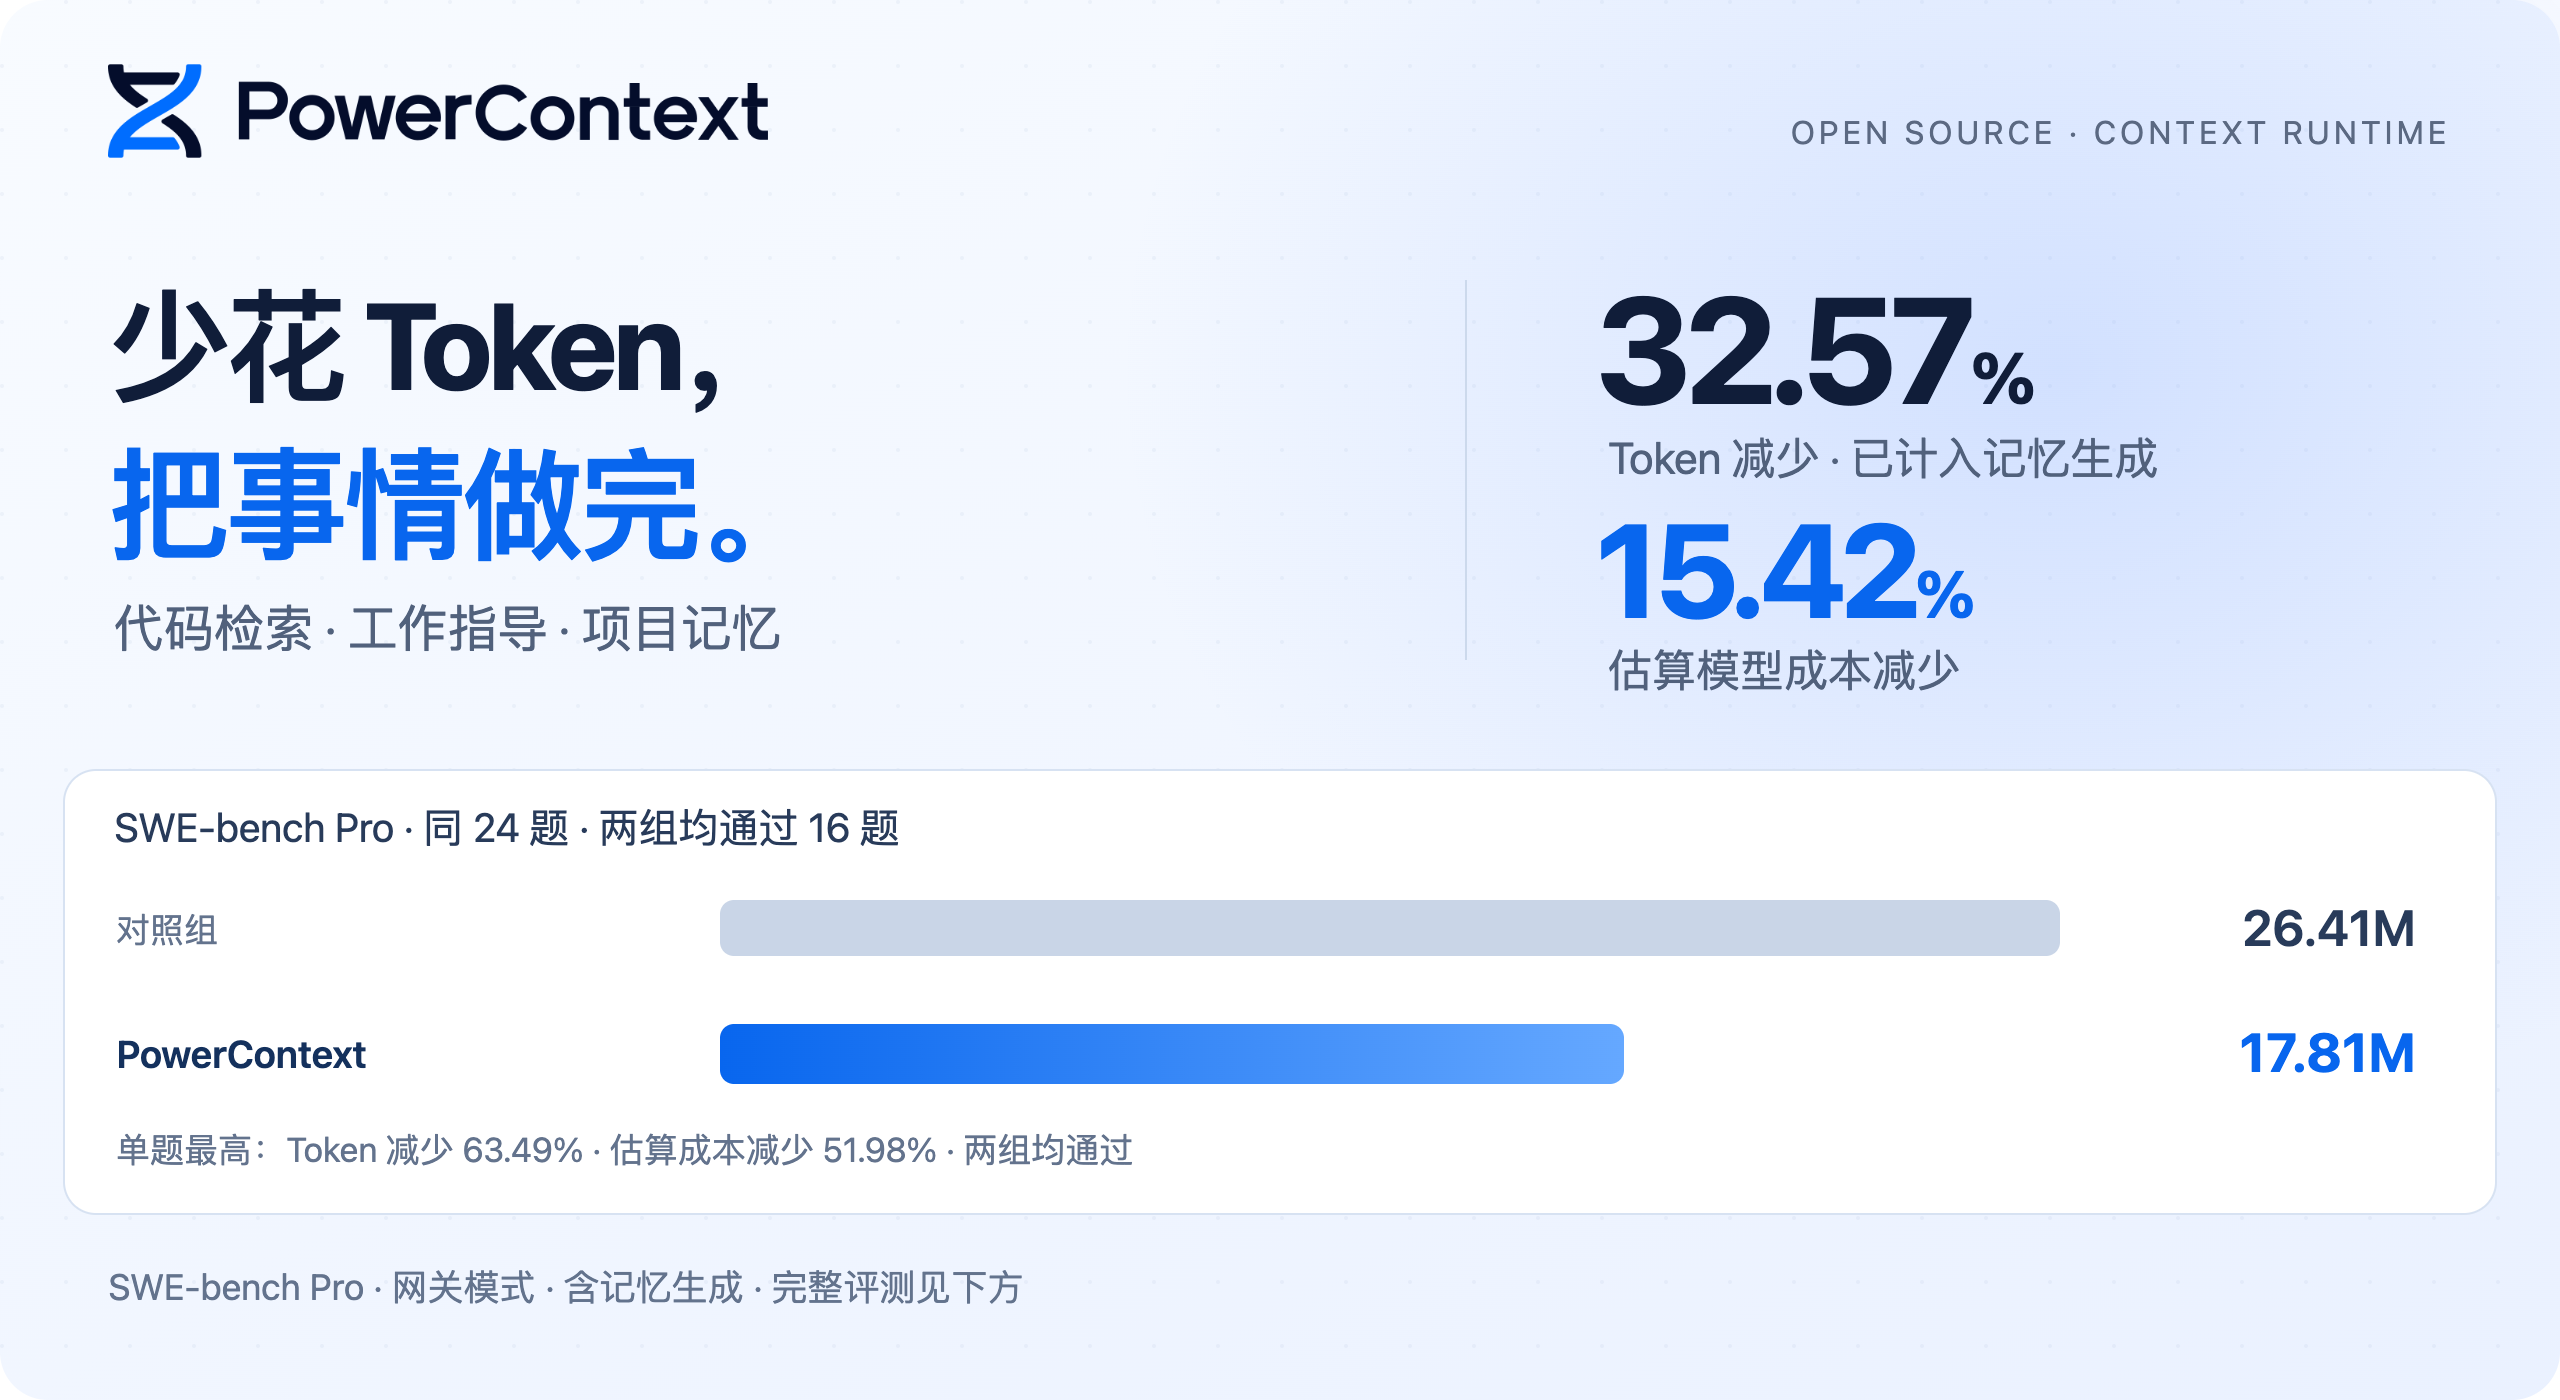
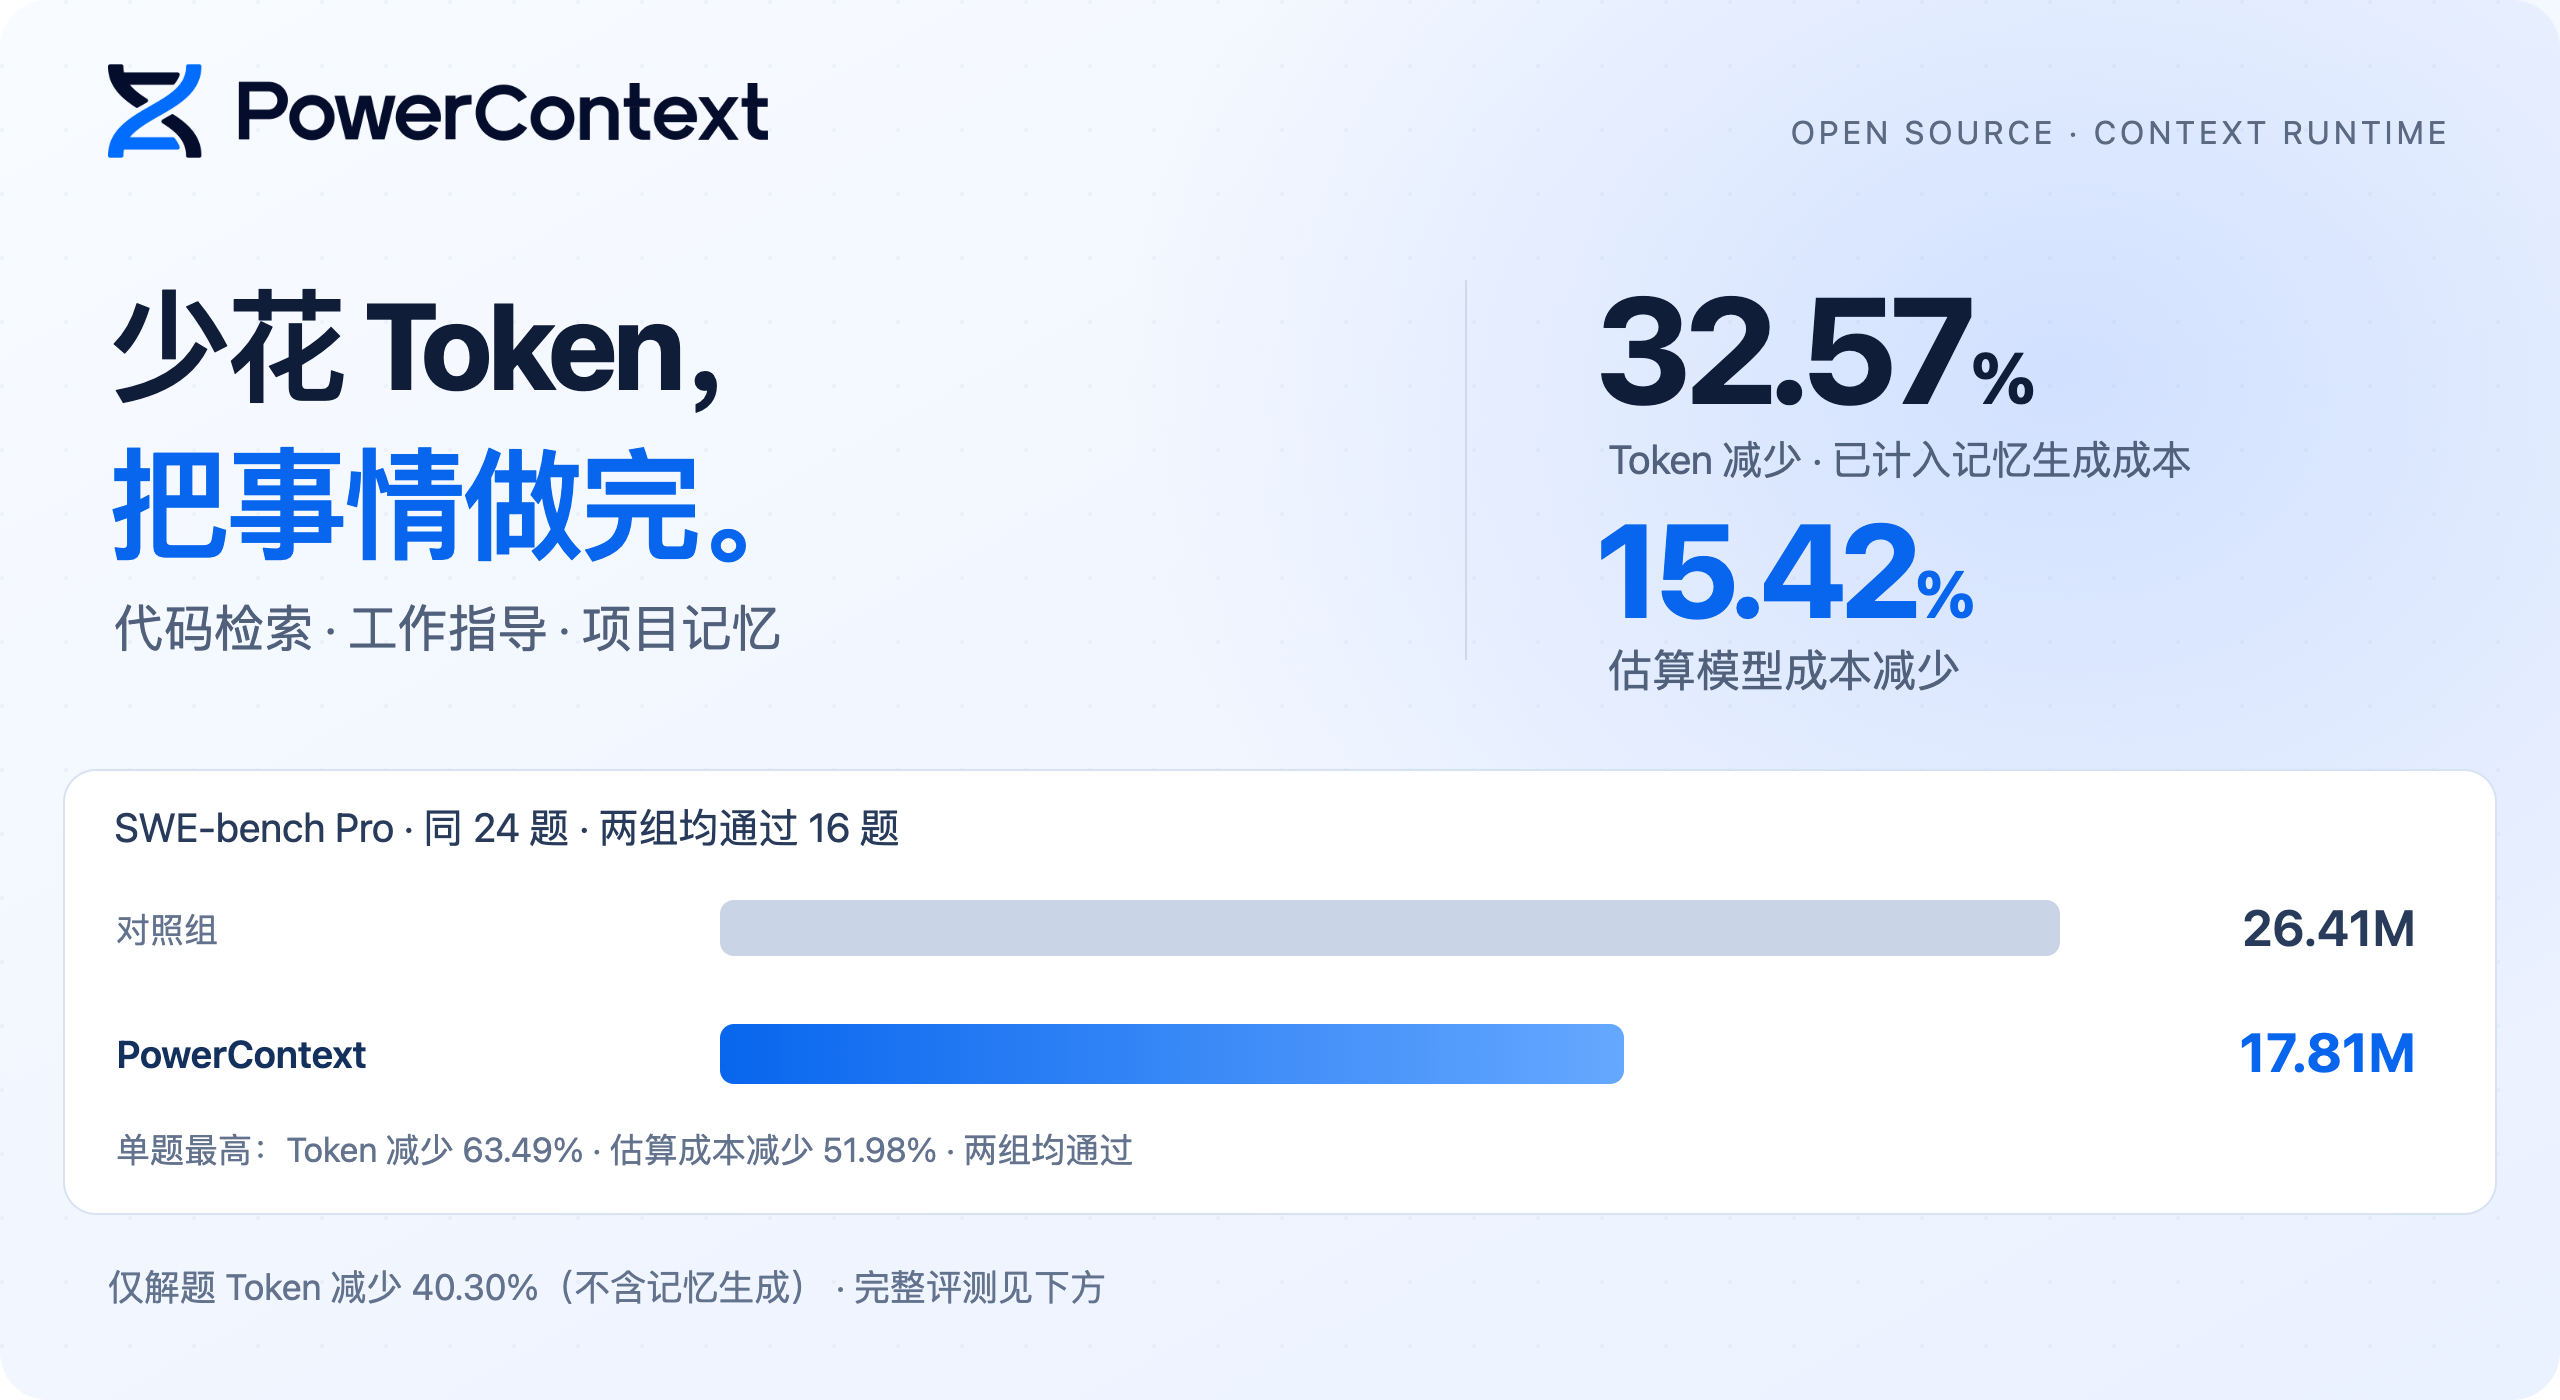
docs: show solving savings alongside memory-inclusive totals

Changed region(s): [[0.0312, 0.8907, 0.4375, 0.9521], [0.625, 0.3071, 0.875, 0.3379]]

diff --git a/README.md b/README.md
@@ -37,6 +37,8 @@ Run it as a service through HTTP, MCP, Python, or Agent integrations, or embed C
 
 <img src="docs/assets/readme-results-en.png" width="100%" alt="24 tasks: 32.57% fewer tokens, 15.42% lower estimated cost. Best task: 63.49% fewer tokens, 51.98% lower estimated cost. Memory generation included." />
 
+**Solving alone uses 40.30% fewer tokens; including memory generation overhead, the reduction is 32.57%.** Saved memories can be reused in later sessions, extending the value of accumulated knowledge. This benchmark measures the current run; future reuse benefits have not been measured here.
+
 **Best task: 63.49% fewer tokens and 51.98% lower estimated model cost.** Both runs passed case 456, with tokens falling from 2.30 million to 0.84 million, including memory generation.
 
 [Explore the full benchmark: task results, methodology, and setup →](docs/benchmarks/token-savings/README.md)

diff --git a/README_CN.md b/README_CN.md
@@ -37,6 +37,8 @@
 
 <img src="docs/assets/readme-results-zh.png" width="100%" alt="同24题：Token减少32.57%，估算成本减少15.42%；单题最高分别减少63.49%和51.98%。已计入记忆生成。" />
 
+**只看解题，Token 减少 40.30%；计入记忆生成成本后，仍减少 32.57%。** 记忆还可以在后续会话中反复复用，让已积累的知识继续发挥价值。本次测试衡量当轮开销，后续复用的收益尚未计入。
+
 **单题最高省下 63.49% Token、51.98% 估算模型成本。** 第 456 题，两组均通过，Token 从 230 万降到 84 万，已计入记忆生成。
 
 [查看完整评测：逐题结果、统计口径与复现配置 →](docs/benchmarks/token-savings/README_CN.md)
